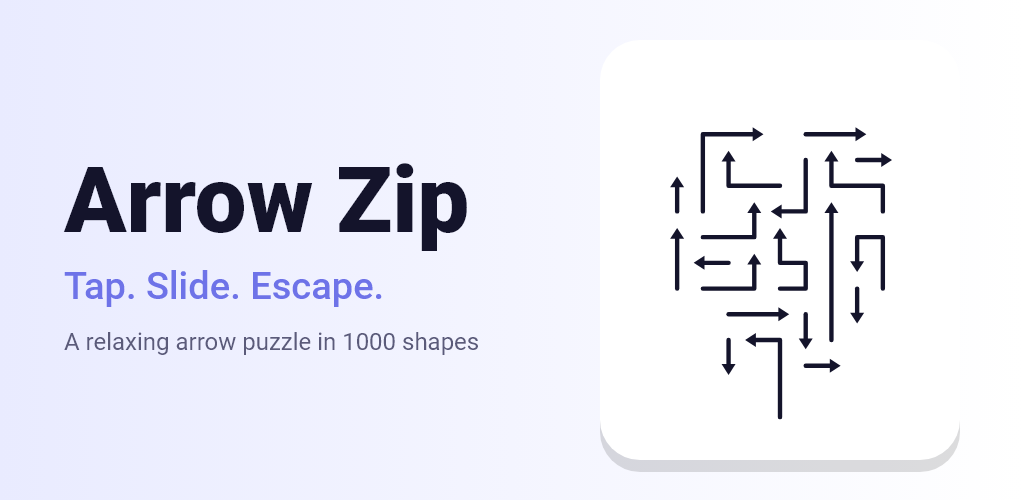
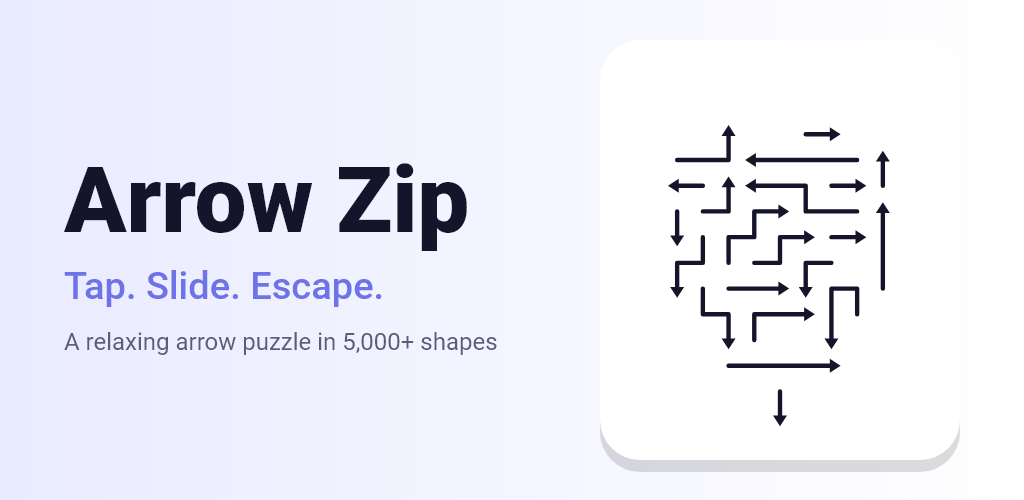
Endless levels, 5,000+ board shapes, hard levels, free retry, in-app updates

Changed region(s): [[0.6562, 0.24, 0.875, 0.78], [0.3125, 0.66, 0.5, 0.72]]

diff --git a/README.md b/README.md
@@ -17,7 +17,11 @@ win. Currently in closed testing on Google Play.
 
 ## Features
 
-- 1,000 levels on boards of different shapes (hearts, diamonds, rings and more)
+- Endless levels: every level number makes a new board
+- Over 5,000 different board shapes: 45 hand-drawn objects (rockets, cats,
+  castles, owls, guitars...), letters and numbers, faces, stamps, cut-outs,
+  flowers and gears, stars, polygons, pairs and patterns
+- A hard level every fifth level: a bigger board packed with many more arrows
 - Snake-shaped arrows that bend and slide out along their path
 - Every level is solvable by construction
 - Level clock with best times, star ratings and combos
@@ -25,7 +29,10 @@ win. Currently in closed testing on Google Play.
 - Daily challenge with streaks
 - 40 achievements
 - Light and dark themes, phone and tablet layouts
+- Out of hearts? Try again for free, or watch an optional ad to keep your
+  progress
 - Optional sign-in (Google or email) and an ad-free subscription
+- Tells players when an update is ready, and updates in place
 
 ## How the levels are made
 
@@ -37,12 +44,27 @@ solution. It fills the board from the centre outwards, places long arrows
 first and then fills the gaps, which keeps boards dense (about 90%). The level
 number seeds the random generator, so the same level always looks the same.
 
+## How the shapes work
+
+Each board is cut to a silhouette. A few dozen shapes are drawn by hand: 19
+geometric classics and 45 pixel-art objects. The rest are generated from
+families: regular polygons and stars, flowers and gears from the Gielis
+superformula, a bold 5x7 font for letters and numbers, and combinations such
+as a shape with another shape or letter cut out of it, faces, stamps and
+stacked pairs. Of 6,493 shapes, 5,167 give genuinely different boards (a test
+checks this). Levels rotate through the families, and each family uses every
+one of its shapes before any repeats, so neighbouring levels never look alike.
+Shapes too thin to hold arrows are filtered out, measured on a background
+isolate at startup.
+
 ## Tech
 
 - Flutter and Dart, with Riverpod for state
 - `CustomPainter` for the board, with slide, bump and hint animations
 - Firebase Authentication (Google and email sign-in)
-- Google Mobile Ads with UMP consent, and `in_app_purchase` for subscriptions
+- Google Mobile Ads with UMP consent (banner, interstitial and rewarded),
+  and `in_app_purchase` for subscriptions
+- Google Play in-app updates
 - Automated tests for the game rules, level solvability and UI
 - Play Store screenshots rendered from the real widgets in a Flutter test
 
